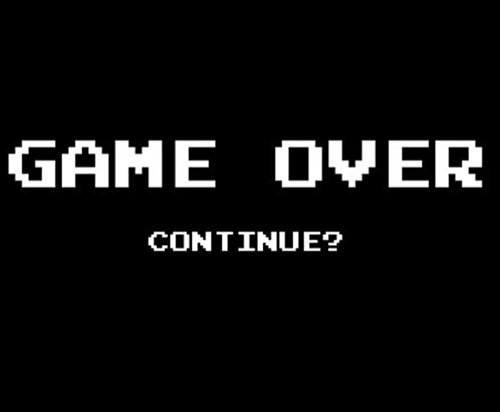
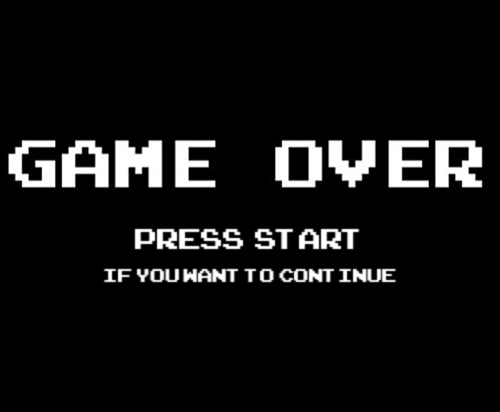
Add walls destruction, a little bit of refactoring in main form, returned GameOver screen.

Changed region(s): [[0.21, 0.6408, 0.81, 0.699], [0.27, 0.5534, 0.72, 0.6117]]

diff --git a/Tanks/PacmanController.cs b/Tanks/PacmanController.cs
@@ -5,6 +5,7 @@ using System.Text;
 using System.Threading.Tasks;
 using System.Windows.Forms;
 using System.Drawing;
+using System.Threading;
 
 namespace Tanks
 {
@@ -56,12 +57,12 @@ namespace Tanks
 			DrawableEntities.Add(Kolobok);
 		}
 
-		public void SpawnTank()
+		public void SpawnTank(Size fieldSize)
 		{
 			if (Tanks.Count < maxTanks)
 			{
 				Random rnd = new Random();
-				Position position = new Position(rnd.Next(0, 500), rnd.Next(0, 500));
+				Position position = new Position(rnd.Next(0, fieldSize.Width - 36), rnd.Next(0, fieldSize.Height - 36));
 				Tank tank = new Tank(position, 36, 36);
 				if (!IsSpawnColliding(tank))
 				{
@@ -72,12 +73,12 @@ namespace Tanks
 			}
 		}
 
-		public void SpawnApple()
+		public void SpawnApple(Size fieldSize)
 		{
 			if (apples.Count < maxApples)
 			{
 				Random rnd = new Random();
-				Position position = new Position(rnd.Next(0, 500), rnd.Next(0, 500));
+				Position position = new Position(rnd.Next(0, fieldSize.Width - 30), rnd.Next(0, fieldSize.Height - 34));
 				Apple apple = new Apple(position, 30, 34);
 				if (!IsSpawnColliding(apple))
 				{
@@ -90,8 +91,12 @@ namespace Tanks
 		public void LookForCollisions(Size gameField)
 		{
 			CheckKolobokCollisions(gameField);
+			CheckWallCollisions();
 			CheckTanksCollisions(gameField);
+		}
 
+		private void CheckWallCollisions()
+		{
 			foreach (var wall in walls)
 			{
 				CheckAndCorrectCollision(Kolobok, wall);
@@ -100,14 +105,32 @@ namespace Tanks
 				{
 					if (IsBoxColiding(wall, bullet))
 					{
-						DrawableEntities.Add(new Explosion(new Position(bullet.Coordinates.X - 16, bullet.Coordinates.Y - 16), 32, 32, Direction.NONE));
+						DrawableEntities.Add(new Explosion(new Position(bullet.Coordinates.X - 16, bullet.Coordinates.Y - 16), 32, 32));
+
+						wall.Health -= 5;
+						if (wall.Health <= 0)
+						{
+							walls.Remove(wall);
+							DrawableEntities.Remove(wall);
+							for (int i = 0; i < wall.Width; i += 36)
+							{
+								Position point = new Position(wall.Coordinates.X + i, wall.Coordinates.Y);
+								DrawableEntities.Add(new Explosion(point, 36, 36));
+							}
+							for (int i = 0; i < wall.Height; i += 36)
+							{
+								Position point = new Position(wall.Coordinates.X, wall.Coordinates.Y + i);
+								DrawableEntities.Add(new Explosion(point, 36, 36));
+							}
+							return;
+						}
 
 						bullets.Remove(bullet);
 						DrawableEntities.Remove(bullet);
 						MovableEntities.Remove(bullet);
 						break;
 					}
-					
+
 				}
 
 				foreach (var invisibleBullet in invisibleBullets)
@@ -135,6 +158,7 @@ namespace Tanks
 					if (IsBoxColiding(Kolobok, bullet))
 					{
 						GameOver = true;
+						Thread.Sleep(1000);
 						return;
 					}
 				}
@@ -199,6 +223,7 @@ namespace Tanks
 				if (IsBoxColiding(Kolobok, tank))
 				{
 					GameOver = true;
+					Thread.Sleep(1000);
 					break;
 				}
 
@@ -210,7 +235,7 @@ namespace Tanks
 						DrawableEntities.Remove(tank);
 						MovableEntities.Remove(tank);
 
-						DrawableEntities.Add(new Explosion(tank.Coordinates, tank.Width, tank.Height, Direction.NONE));
+						DrawableEntities.Add(new Explosion(tank.Coordinates, tank.Width, tank.Height));
 
 						bullets.Remove(bullet);
 						DrawableEntities.Remove(bullet);
@@ -245,6 +270,10 @@ namespace Tanks
 			foreach (var tank in Tanks)
 			{
 				if (IsBoxColiding(entity, tank)) return true;
+			}
+			foreach (var river in rivers)
+			{
+				if (IsBoxColiding(entity, river)) return true;
 			}
 			if (IsBoxColiding(entity, Kolobok)) return true;
 			return false;

diff --git a/Tanks/MainGameForm.cs b/Tanks/MainGameForm.cs
@@ -9,22 +9,15 @@ namespace Tanks
 	{
 		public PacmanController controller = new PacmanController(5, 5);
 
-		private Bitmap wallsBitmap;
-
 		EntitiesInfo infoForm;
 
 		public MainGameForm()
 		{
 			InitializeComponent();
+			this.FormBorderStyle = FormBorderStyle.FixedSingle;
 			mainGameTimer.Enabled = false;
 			Bitmap bmp = new Bitmap(gameFieldPictureBox.Width, gameFieldPictureBox.Height);
 			this.gameFieldPictureBox.Image = bmp;
-		}
-
-		private void InitGameField()
-		{
-			
-
 		}
 
 		private void UpdateEntities()
@@ -39,7 +32,7 @@ namespace Tanks
 
 		private void InitGameOver()
 		{
-			if (infoForm  != null )infoForm.Dispose();
+			if (infoForm != null) infoForm.Dispose();
 			startGameButton.Enabled = true;
 			gameFieldPictureBox.Image = Properties.Resources.gameOver;
 			Bitmap bmp = new Bitmap(this.gameFieldPictureBox.Image);
@@ -69,21 +62,21 @@ namespace Tanks
 		{
 			if (!controller.GameOver)
 			{
-				controller.SpawnTank();
-				controller.SpawnApple();
+				controller.SpawnTank(this.gameFieldPictureBox.Size);
+				controller.SpawnApple(this.gameFieldPictureBox.Size);
 				UpdateEntities();
 				scoreLabel.Text = "Score: " + controller.Score;
 			}
 			else
 			{
-				controller = new PacmanController(5, 5);
+				InitGameOver();
 			}
 			
 		}
 
 		private void startGameButton_Click(object sender, EventArgs e)
 		{
-			InitGameField();
+			controller = new PacmanController(5, 5);
 			mainGameTimer.Enabled = true;
 			this.ActiveControl = null;
 			startGameButton.Enabled = false;
@@ -109,8 +102,7 @@ namespace Tanks
 			} 
 			else if (e.KeyCode == Keys.Y && controller.GameOver)
 			{
-				this.gameFieldPictureBox.Image = wallsBitmap;
-				InitGameField();
+				InitGameOver();
 			}
 		}
 

diff --git a/Tanks/MainGameForm.Designer.cs b/Tanks/MainGameForm.Designer.cs
@@ -73,7 +73,7 @@ namespace Tanks
 			this.startGameButton.Name = "startGameButton";
 			this.startGameButton.Size = new System.Drawing.Size(128, 78);
 			this.startGameButton.TabIndex = 3;
-			this.startGameButton.Text = "Start Game";
+			this.startGameButton.Text = "Start";
 			this.startGameButton.UseVisualStyleBackColor = true;
 			this.startGameButton.Click += new System.EventHandler(this.startGameButton_Click);
 			// 
@@ -98,6 +98,7 @@ namespace Tanks
 			// 
 			this.AutoScaleDimensions = new System.Drawing.SizeF(8F, 16F);
 			this.AutoScaleMode = System.Windows.Forms.AutoScaleMode.Font;
+			this.AutoSizeMode = System.Windows.Forms.AutoSizeMode.GrowAndShrink;
 			this.BackColor = System.Drawing.Color.White;
 			this.ClientSize = new System.Drawing.Size(680, 663);
 			this.Controls.Add(this.label1);
@@ -105,8 +106,9 @@ namespace Tanks
 			this.Controls.Add(this.gameFieldPictureBox);
 			this.Controls.Add(this.scoreLabel);
 			this.Margin = new System.Windows.Forms.Padding(4);
+			this.MaximizeBox = false;
 			this.Name = "MainGameForm";
-			this.Text = "MainGameForm";
+			this.Text = "Tanks";
 			this.KeyDown += new System.Windows.Forms.KeyEventHandler(this.MainGameForm_KeyDown);
 			((System.ComponentModel.ISupportInitialize)(this.gameFieldPictureBox)).EndInit();
 			this.ResumeLayout(false);

diff --git a/Tanks/Models/Bullet.cs b/Tanks/Models/Bullet.cs
@@ -16,7 +16,9 @@ namespace Tanks
 			CurrentImage = images[0];
 
 			this.direction = direction;
-			speed = 4;
+			speed = 3;
+
+			OffsetInitialPosition();
 
 			this.shooter = shooter;
 		}
@@ -29,7 +31,9 @@ namespace Tanks
 			CurrentImage = images[0];
 
 			this.direction = direction;
-			speed = 7;
+			speed = 3;
+
+			OffsetInitialPosition();
 
 		}
 
@@ -66,9 +70,37 @@ namespace Tanks
 						new Rectangle(new Point(Coordinates.X, Coordinates.Y), new Size(Width, Height)));
 		}
 
+		private void OffsetInitialPosition()
+		{
+			switch (direction)
+			{
+				case Direction.Right:
+					{
+						Coordinates.X += speed * 2;
+						break;
+					}
+				case Direction.Left:
+					{
+						Coordinates.X -= speed * 2;
+						break;
+					}
+				case Direction.Up:
+					{
+						Coordinates.Y -= speed * 2;
+						break;
+					}
+				case Direction.Down:
+					{
+						Coordinates.Y += speed * 2;
+						break;
+					}
+			}
+		}
+
 		public void SwitchDirection()
 		{
 			return;
 		}
+
 	}
 }

diff --git a/Tanks/Models/Explosion.cs b/Tanks/Models/Explosion.cs
@@ -10,7 +10,7 @@ namespace Tanks
 	class Explosion: EntityModel, IDrawable
 	{
 		private int currentImageNum;
-		public Explosion(Position coordinates, int width, int height, Direction direction) : base(coordinates, width, height)
+		public Explosion(Position coordinates, int width, int height) : base(coordinates, width, height)
 		{
 			InitImages();
 			currentImageNum = 0;
@@ -18,11 +18,6 @@ namespace Tanks
 
 		public void Draw(Graphics g)
 		{
-			//for (int i = 0; i < images.Length; i++)
-			//{
-			//	g.DrawImageUnscaledAndClipped(images[i],
-			//			new Rectangle(new Point(Coordinates.X, Coordinates.Y), new Size(Width, Height)));
-			//}
 			CurrentImage = images[currentImageNum];
 			g.DrawImageUnscaledAndClipped(CurrentImage,
 						new Rectangle(new Point(Coordinates.X, Coordinates.Y), new Size(Width, Height)));

diff --git a/Tanks/Models/Wall.cs b/Tanks/Models/Wall.cs
@@ -10,11 +10,14 @@ namespace Tanks
 {
 	public class Wall : EntityModel, IDrawable
 	{
+
+		public int Health { get; set; }
 		public Wall(Position coordinates, int width, int height) : base(coordinates, width, height)
 		{
 			InitImages();
 			CurrentImage = images[0];
 
+			Health = 40;
 		}
 
 		public void Draw(Graphics g)
